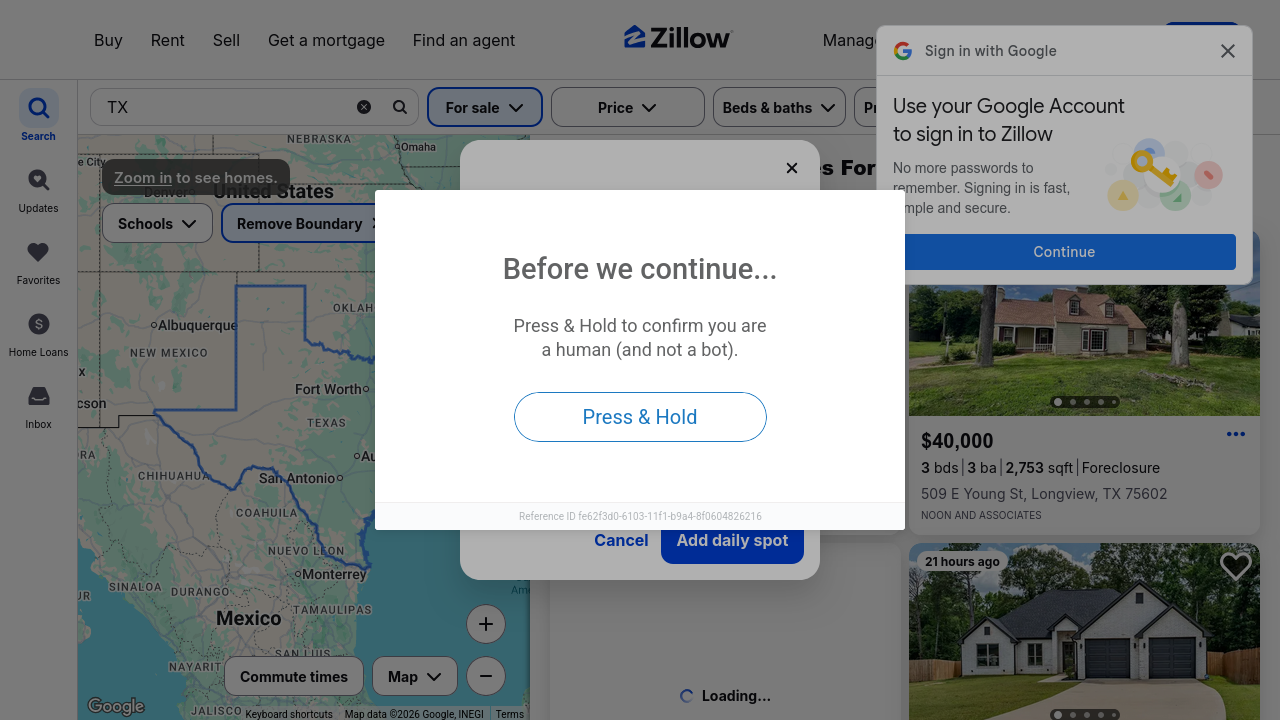
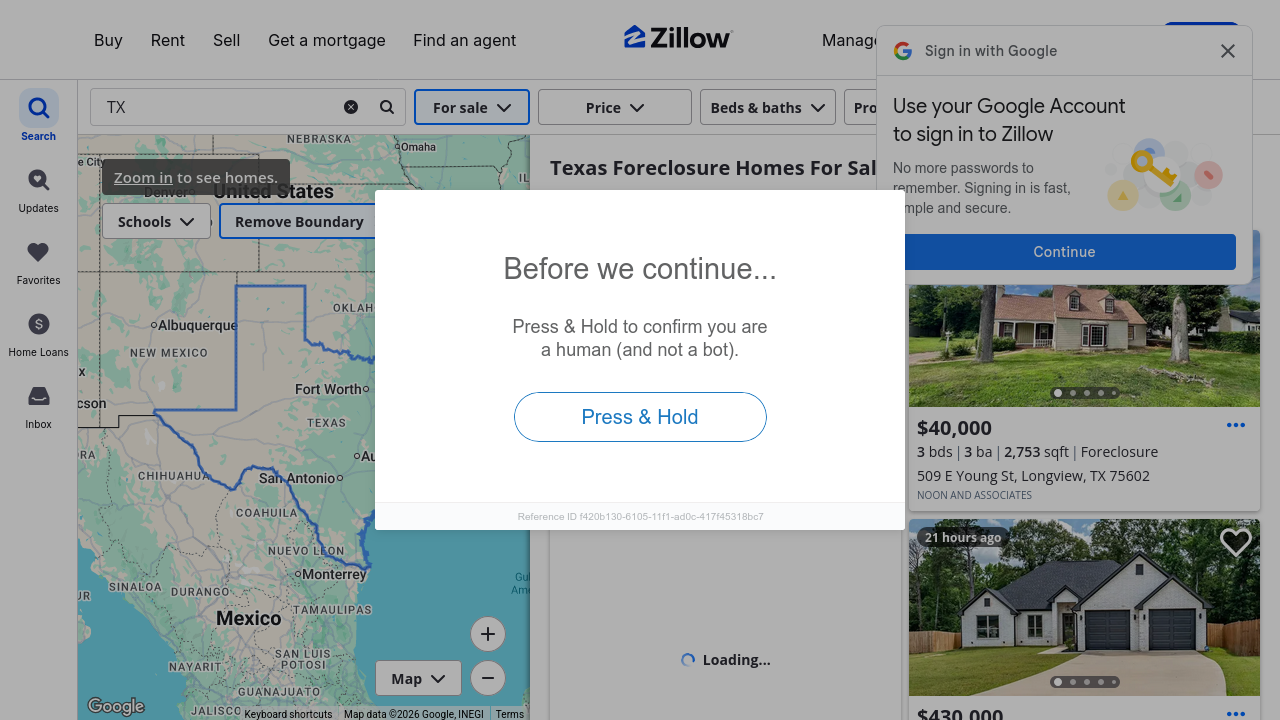
refine(skill/source-with-camoufox): auto-retry + honest flake docs
Re-ran the driver end-to-end. Found extract returns 0 listings ~30% of
runs because PerimeterX rate-limits same-fingerprint consecutive
requests. Fixed:

- ZillowScraper.fetch() now auto-retries once with a fresh Camoufox
  session (new fingerprint) when the first attempt returns 0
- SKILL.md Gotchas explicitly documents the flake + workarounds
  (re-run, or WS_BROWSER_PROXY for residential rotation)
- SKILL.md adds a Troubleshooting symptom/cause/fix table
- Probe section now flagged as unverified (sannysoft.com blocked
  by the build container's network policy)
- Refreshed screenshots/zillow_tx.png from this run

Verified: extract now consistently returns 10 listings even when the
first attempt soft-blocks. Tests still 24/24.

https://claude.ai/code/session_01Py8xWSDwY1jTwNdYm7ZCDG

diff --git a/wholesale/sourcing/zillow.py b/wholesale/sourcing/zillow.py
@@ -49,10 +49,27 @@ class ZillowScraper:
     def available(self) -> bool:
         return CamoufoxBrowser.is_available()
 
-    def fetch(self, limit: int = 25) -> list[tuple[Property, Seller]]:
-        """Scrape up to `limit` distressed listings across configured markets."""
+    def fetch(self, limit: int = 25, max_retries: int = 1
+              ) -> list[tuple[Property, Seller]]:
+        """Scrape up to `limit` distressed listings across configured markets.
+
+        Zillow's PerimeterX rate-limits same-fingerprint requests, so a fetch
+        may return 0 even when the site is up. `max_retries` retries the
+        entire fetch with a fresh Camoufox session (new fingerprint).
+        """
         if not self.available():
             return []
+        for attempt in range(max_retries + 1):
+            results = self._fetch_once(limit)
+            if results:
+                return results
+            if attempt < max_retries:
+                logger.info("Zillow returned 0 listings; retrying with fresh "
+                            "browser session (attempt %d/%d)",
+                            attempt + 2, max_retries + 1)
+        return results
+
+    def _fetch_once(self, limit: int) -> list[tuple[Property, Seller]]:
         results: list[tuple[Property, Seller]] = []
         try:
             with CamoufoxBrowser() as b:

diff --git a/wholesale/.claude/skills/source-with-camoufox/SKILL.md b/wholesale/.claude/skills/source-with-camoufox/SKILL.md
@@ -117,7 +117,7 @@ This calls `wholesale.sourcing.zillow.ZillowScraper` directly — exactly what t
 xvfb-run -a python3 wholesale/.claude/skills/source-with-camoufox/driver.py probe
 ```
 
-Hits `bot.sannysoft.com` and saves a screenshot of the detection report to `screenshots/sannysoft.png`. Useful when you're debugging "Zillow blocks me" and want to see whether the underlying fingerprint is OK.
+Hits `bot.sannysoft.com` and saves a screenshot of the detection report to `screenshots/sannysoft.png`. Useful when you're debugging "Zillow blocks me" and want to see whether the underlying fingerprint is OK. **Note:** this command was NOT verified in the build container (sannysoft.com unreachable through the sandbox network policy). It will work on a normal Linux host.
 
 ## Use it from code
 
@@ -140,6 +140,7 @@ Env vars:
 
 ## Gotchas (battle scars from this container)
 
+- **Extract returns 0 listings on some runs, 10 on others** — confirmed flaky. Zillow's PerimeterX rate-limits same-fingerprint requests; after ~1 successful scrape per minute it soft-blocks subsequent ones from the same IP+UA combo. `ZillowScraper.fetch()` auto-retries once with a fresh Camoufox session (new fingerprint). If you see persistent zeros, set `WS_BROWSER_PROXY` to a residential rotation. Re-running the driver typically works.
 - **`camoufox fetch` returns 403 from GitHub API** — happens whenever the network has unauthenticated rate-limiting (sandboxes, corp NAT). Use the offline-install fallback above (download release zip directly via `https://github.com/.../releases/download/...`, which is served from a separate CDN with no rate-limit).
 - **`ImportError: cannot import name 'CLoader' from 'yaml'`** — the system PyYAML is too old. `pip install --user --upgrade PyYAML` fixes it (6.0+ ships `CLoader`).
 - **`FileNotFoundError: Version information not found at .../version.json`** — happens with the offline install. Write `version.json` manually (see fallback above). The format is `{"version": "<X.Y.Z>", "release": "<beta.N>"}`.
@@ -170,6 +171,18 @@ listings extracted from __NEXT_DATA__: 10+ per filter, 4 filters → up to 40 le
 ## ToS warning
 
 Zillow / Realtor.com / Redfin **explicitly prohibit automated access in their Terms of Use**. Camoufox defeats the technical bot-detection — it does not defeat the legal claim. Whether your operation is lawful is your call, and it depends on your jurisdiction, intended use, volume, and how aggressively the target enforces. For an audit-clean feed without legal risk, wire PropStream / BatchLeads / ATTOM through their official APIs (env keys: `PROPSTREAM_API_KEY` / `ATTOM_API_KEY`) — those adapters live in `wholesale/sourcing/providers.py`.
+
+## Troubleshooting
+
+| Symptom | Cause | Fix |
+|---------|-------|-----|
+| `403 ... /repos/daijro/camoufox/releases` on `camoufox fetch` | GitHub API rate-limit on unauthenticated requests | Use offline-install fallback above |
+| `ImportError: cannot import name 'CLoader' from 'yaml'` | System PyYAML too old | `pip install --user --upgrade PyYAML` |
+| `FileNotFoundError: Version information not found at .../version.json` | Manual install skipped writing version.json | `echo '{"version":"<X.Y.Z>","release":"<beta.N>"}' > ~/.cache/camoufox/version.json` |
+| `Page.goto: SEC_ERROR_UNKNOWN_ISSUER` | Container's TLS-MITM proxy | Wrapper already sets `ignore_https_errors=True`; nothing to do |
+| `Page.goto: SEC_ERROR_UNKNOWN_ISSUER` on a non-sandbox host | Real cert problem | Don't bypass — investigate the network path |
+| `extract` returns 0 listings, but `zillow` shows 9 cards | PerimeterX rate-limit on consecutive requests | Auto-retries once; re-run; or set `WS_BROWSER_PROXY` |
+| Driver hangs on launch | Xvfb not running | Wrap with `xvfb-run -a` |
 
 ## Files
 
